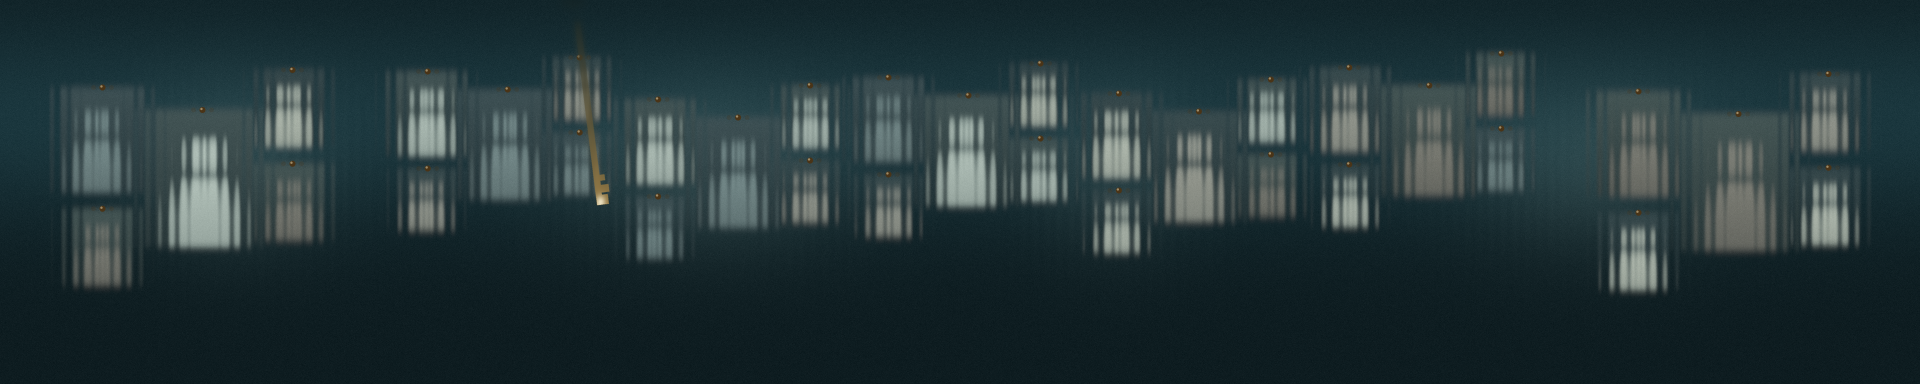
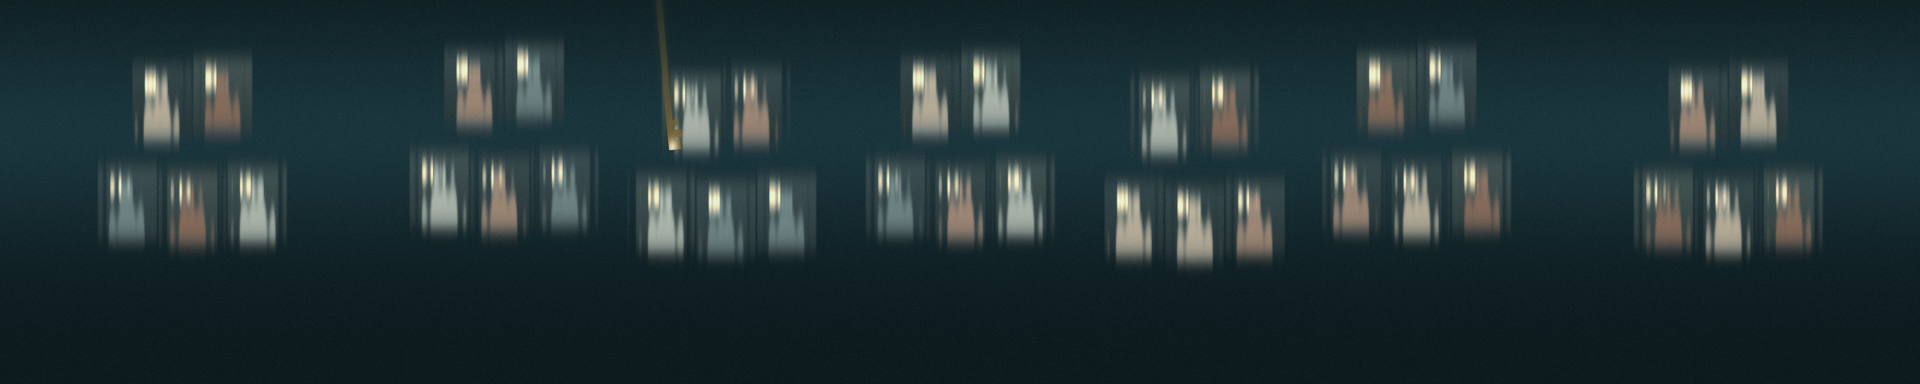
Идея «Окно»: обновления арт-директора и дизайнера (в работе)
Claude-Session: https://claude.ai/code/session_01A8nSHxPdxFUsNYF2YVY3yz

Changed region(s): [[0.0312, 0.0938, 0.9688, 0.7812]]

diff --git a/projects/pz26_nagrazhdenie/03_style/thumbs/okno_calib.py b/projects/pz26_nagrazhdenie/03_style/thumbs/okno_calib.py
@@ -1,0 +1,171 @@
+import numpy as np, json, os, sys
+from PIL import Image, ImageDraw, ImageFont
+from scipy.ndimage import gaussian_filter1d, uniform_filter1d, gaussian_filter
+W,H=1920,384; PITCH=12
+def hexc(h): h=h.lstrip('#'); return np.array([int(h[i:i+2],16) for i in (0,2,4)],np.float32)/255
+def s2l(x): return np.where(x<=0.04045,x/12.92,((x+0.055)/1.055)**2.4)
+def l2s(x): x=np.clip(x,0,1); return np.where(x<=0.0031308,x*12.92,1.055*x**(1/2.4)-0.055)
+def luma(im): return im@np.array([0.2126,0.7152,0.0722],np.float32)
+TEAL=hexc('#002935'); DEEP=hexc('#00151C'); FROST=hexc('#7C9795'); FROSTHI=hexc('#A4B9B5'); GOLD=hexc('#C9A961'); FIRE=hexc('#F0D6A0'); TEXT=hexc('#F4EFE4')
+PL_BG=[hexc(c) for c in ('#2F4348','#3A4A4A','#33474F','#3D4B47','#2C4046')]
+FIG=[hexc(c) for c in ('#C79A7E','#D8D0BC','#7C8F93','#A9795F','#E6C9A8')]
+rng=np.random.RandomState(26)
+tone=[int(i) for i in np.random.RandomState(7).permutation(35)%5]
+CX=[192,499.2,729.6,960,1190.4,1420.8,1728]
+SECY=[0,-14,10,-6,14,-10,6]; SECX=[0,4,-5,0,5,-4,0]
+def slots(w,h,pitch,tier_gap,top_up,top_lo):
+    out=[]
+    for s,cx in enumerate(CX):
+        cx=cx+SECX[s]; dy=SECY[s]
+        for k,dx in enumerate((-pitch,0,pitch)): out.append((cx+dx,top_lo+dy+(k%2)*5))
+        for k,dx in enumerate((-pitch/2,pitch/2)): out.append((cx+dx,top_up+dy-(k%2)*6))
+    return out  # centre x, top y
+UW,UH=56,70           # underlay (shadow) size
+UND=slots(UW,UH,62,0,66,168)
+LW,LH=60,107          # final leaf 9:16
+LEAF=slots(LW,LH,66,0,48,172)
+def figure_plate(i,w,h,lampx=True):
+    ww,hh=int(w),int(h); yy,xx=np.mgrid[0:hh,0:ww]; u=(xx+0.5)/ww*2-1; v=(yy+0.5)/hh
+    bg=PL_BG[tone[i]][None,None,:]*(1.15-0.35*v)[...,None]
+    off=((i*37)%11-5)/60
+    head=((u-off)/0.20)**2+((v-0.34*(70/h if h<80 else 1)*(h/70 if h<80 else 1))/0.14)**2<1
+    head=((u-off)/0.20)**2+((v-0.34)/0.14)**2<1
+    body=(((u-off)/0.62)**2+((v-0.98)/0.52)**2<1)&(v>0.5)
+    fig=gaussian_filter((head|body).astype(np.float32),0.7)[...,None]
+    col=FIG[tone[i]][None,None,:]*(1.08-0.3*v)[...,None]
+    return bg*(1-fig)+col*fig
+def lamp_pos(i,x,top,w,h): return (x+w*0.30, top+h*0.26)
+def draw_lamp(img,cx,cy,r=2.6,scale=1.0,col=None,strength=1.0):
+    yy,xx=np.mgrid[0:H,0:W]
+    d=np.sqrt((xx-cx)**2+(yy-cy)**2); m=np.clip(r+0.5-d,0,1)[...,None]*strength
+    col=FIRE if col is None else col
+    img[:]=img*(1-m)+col*m
+def bg_world(sharp=False,w0=1.0,w1=0.5):
+    y=np.linspace(0,1,H)[:,None,None]; x=np.linspace(0,1,W)[None,:,None]
+    base=TEAL[None,None,:]*(0.5+0.9*np.exp(-((y-0.34)/0.30)**2))
+    if sharp:
+        n=gaussian_filter(np.random.RandomState(3).randn(H,W),(0.6,0.4)); base=base*(w0+w1*np.exp(-((y-0.34)/0.3)**2))*(1+0.05*n[...,None])
+    return np.clip(base,0,1)
+def underlay_lin(include_lamps=True):
+    img=l2s(s2l(bg_world(False))); 
+    layer=np.zeros((H,W,3),np.float32); a=np.zeros((H,W),np.float32)
+    for i,(cx,top) in enumerate(UND):
+        p=figure_plate(i,UW,UH); x0=int(round(cx-UW/2)); y0=int(round(top))
+        layer[y0:y0+UH,x0:x0+UW]=p; a[y0:y0+UH,x0:x0+UW]=1
+    base=img*(1-a[...,None])+layer*a[...,None]
+    base=base.copy()
+    lamps=[]
+    for i,(cx,top) in enumerate(UND):
+        lx,ly=lamp_pos(i,cx-UW/2,top,UW,UH); lamps.append((lx,ly))
+    lin=s2l(base)
+    if include_lamps:
+        yy,xx=np.mgrid[0:H,0:W]
+        for (lx,ly) in lamps:
+            d=np.sqrt((xx-lx)**2+(yy-ly)**2); m=np.clip(3.0+0.5-d,0,1)[...,None]
+            lin=lin*(1-m)+s2l(FIRE)[None,None,:]*LAMP*m
+    return lin,lamps
+def glass(lin,A=5,bh=5,bv=7,lift=0.03,gain=0.9,tri=0.65,seed=11):
+    out=uniform_filter1d(lin,bh|1,axis=1,mode='nearest'); out=uniform_filter1d(out,bh|1,axis=1,mode='nearest')
+    out=gaussian_filter1d(out,bv,axis=0,mode='nearest')
+    xs=np.arange(W); u=(xs%PITCH)/PITCH; sh=A*np.sin(2*np.pi*u)
+    src=np.clip(xs+sh,0,W-1); i0=np.floor(src).astype(int); i1=np.minimum(i0+1,W-1); f=(src-i0)[None,:,None]
+    out=out[:,i0]*(1-f)+out[:,i1]*f
+    s=l2s(out); l=luma(s)[...,None]
+    tg=np.where(l<0.5,DEEP+(FROST-DEEP)*(l/0.5),FROST+(FROSTHI-FROST)*np.clip((l-0.5)/0.5,0,1))
+    # keep warmth of fires: tritone weight reduced where warm
+    warm=np.clip((s[...,0]-s[...,2])*4,0,1)[...,None]
+    t=tri*(1-0.7*warm)
+    o=s*(1-t)+tg*t*(0.5+l)
+    o=o*gain+lift
+    n=np.random.RandomState(seed).randn(H,W,1)*0.006
+    return np.clip(o+n,0,1)
+def bevel_window(img,content,x0,y0,x1,y1,wb,glow=1.0):
+    X0,Y0,X1,Y1=[int(round(v)) for v in (x0,y0,x1,y1)]
+    X0c,X1c=max(X0,0),min(X1,W); Y0c,Y1c=max(Y0,0),min(Y1,H)
+    img[Y0c:Y1c,X0c:X1c]=content[Y0c:Y1c,X0c:X1c]
+    yy,xx=np.mgrid[Y0c:Y1c,X0c:X1c]
+    dl=xx-X0; dr=X1-1-xx; dt=yy-Y0; db=Y1-1-yy
+    stack=np.stack([dl,dt,dr,db]); d=stack.min(0); which=stack.argmin(0)
+    inb=d<wb; u=np.clip((wb-d)/wb,0,1)   # 1 outer edge
+    # refraction: sample content mirrored across inner edge (edge shows compressed neighbour pixels)
+    sx=np.where(which==0,X0+wb+(wb-dl)*0.8,np.where(which==2,X1-1-wb-(wb-dr)*0.8,xx)).astype(int)
+    sy=np.where(which==1,Y0+wb+(wb-dt)*0.8,np.where(which==3,Y1-1-wb-(wb-db)*0.8,yy)).astype(int)
+    sx=np.clip(sx,0,W-1); sy=np.clip(sy,0,H-1)
+    refr=content[sy,sx]
+    lit=np.where(which<2,1.0,0.0)
+    gain=np.where(lit>0,1.0+0.55*np.clip(1-np.abs(u-0.3)/0.5,0,1),0.45-0.15*u)[...,None]
+    warm=np.where(lit>0,0.22*np.clip(1-np.abs(u-0.3)/0.5,0,1),0)[...,None]
+    fac=refr*gain*glow+FIRE*warm*glow
+    # outer 1-2px crisp edge: a thin warm-light line only on lit facets
+    edge=((d<=1)&(lit>0))[...,None]*0.5
+    fac=fac+FIRE*edge
+    reg=img[Y0c:Y1c,X0c:X1c]; reg[:]=np.where(inb[...,None],np.clip(fac,0,1),reg)
+    gx=np.exp(-(((xx-(X0+wb*3))/(wb*5))**2))*np.exp(-(((yy-(Y0+wb*0.5))/(wb*0.6))**2))
+    reg[:]=np.clip(reg+FIRE*gx[...,None]*0.40,0,1)
+def stats(arr):
+    l=luma(arr.astype(np.float32)); r,g,b=[arr[...,i].astype(np.float32) for i in range(3)]
+    return dict(dark=round(float(np.mean(l<40))*100,1),mid=round(float(np.mean((l>=40)&(l<150)))*100,1),light=round(float(np.mean((l>=150)&(l<=235)))*100,2),peak=round(float(np.mean(l>235))*100,3),mean=round(float(l.mean()),1),warm=round(float(np.mean(r-b>=40))*100,2))
+OUT='/home/user/dela-poleteli/projects/pz26_nagrazhdenie/03_style/thumbs/'
+def save(name,img):
+    a=(np.clip(img,0,1)*255+0.5).astype(np.uint8); Image.fromarray(a).save(OUT+name); return a
+LAMP=7.0
+KEYX=672
+def key_layer(tipx,tipy,L=210):
+    S=4; im=Image.new('L',(W*S,H*S),0); d=ImageDraw.Draw(im); ang=np.deg2rad(5); dx,dy=np.sin(ang),np.cos(ang)
+    def pt(t,off): return ((tipx-dx*t+dy*off)*S,(tipy-dy*t-dx*off)*S)
+    d.polygon([pt(10,-3),pt(L-30,-3),pt(L-30,3),pt(10,3)],fill=255)
+    for (t0,t1,o) in ((0,9,6),(12,20,8),(24,30,5)): d.polygon([pt(t0,3),pt(t1,3),pt(t1,3+o),pt(t0,3+o)],fill=255)
+    d.polygon([pt(0,-3),pt(0,9),pt(10,9),pt(10,-3)],fill=255)
+    cx,cy=pt(L+8,0); d.ellipse([cx-22*S,cy-22*S,cx+22*S,cy+22*S],outline=255,width=7*S)
+    return np.asarray(im.resize((W,H),Image.LANCZOS)).astype(np.float32)/255
+def add_key(img,tipx,tipy):
+    a=key_layer(tipx,tipy); yy=np.arange(H)[:,None]
+    dist=np.clip((tipy-yy)/200,0,1); ab=gaussian_filter(a,(5,3)); aa=a*(1-dist)+ab*dist
+    t=np.clip((tipy-yy)/215,0,1)[...,None]
+    col=(GOLD*0.62)*(1-t)+np.array([0.05,0.12,0.14])*t; col=np.broadcast_to(col,(H,W,3)).copy()
+    yy2,xx2=np.mgrid[0:H,0:W]; g=np.exp(-(((xx2-tipx)/5)**2+((yy2-tipy+3)/8)**2))[...,None]*a[...,None]
+    col=col*(1-g)+hexc('#F6E4B8')*g
+    img[:]=img*(1-aa[...,None]*0.95)+col*aa[...,None]*0.95
+def k1(P):
+    lin,l=underlay_lin(); img=glass(lin,**P); add_key(img,KEYX,150); return img
+def k2(P):
+    lin,l=underlay_lin(); img=glass(lin,**P)
+    wx0,wx1,wy0,wy1=164,714,37,347
+    # trail: weaker glass strip to the left of window
+    weak=glass(lin,A=3,bh=3,bv=3.5,**{k:v for k,v in P.items() if k not in('A','bh','bv')})
+    tr=np.zeros((H,W),np.float32)
+    for k in range(200):
+        xx=wx0-k; 
+        if xx<0: break
+        tr[wy0+30:wy1-30,xx]=0.9**(k/14)
+    tr=gaussian_filter(tr,(4,3))[...,None]*0.85
+    img=img*(1-tr)+weak*tr
+    # content: neutral b-roll plate, wide continuous layer
+    yy=np.linspace(0,1,H)[:,None,None]; xx=np.linspace(0,1,W)[None,:,None]
+    plate=hexc('#85837A')[None,None,:]*(1.12-0.45*yy)*(1-0.15*((xx-0.2)/0.3)**2)+0*xx
+    plate=np.broadcast_to(plate,(H,W,3)).copy()
+    # warm lamp inside plate (b-roll detail: brass lamp glint) left-centre
+    draw_lamp(plate,300,110,5,strength=1.0)
+    # remaining fires
+    bevel_window(img,plate,wx0,wy0,wx1,wy1,6)
+    # label
+    im=Image.fromarray((np.clip(img,0,1)*255).astype(np.uint8)); d=ImageDraw.Draw(im)
+    f=ImageFont.truetype('/usr/share/fonts/opentype/inter/Inter-Medium.otf',9)
+    d.text((wx0+16,wy1-24),'КАДР: ДЕТАЛЬ ОТЕЛЯ (ПЛЕЙСХОЛДЕР)',font=f,fill=(40,40,36))
+    return np.asarray(im).astype(np.float32)/255
+def k3(P):
+    img=l2s(s2l(bg_world(True,P.get('w0',1.1),P.get('w1',0.7)))); out=img.copy()
+    for i,(cx,top) in enumerate(LEAF):
+        p=figure_plate(i,LW,LH); x0=int(round(cx-LW/2)); y0=int(round(top))
+        # sharp content: full leaf plate (stretch of 4:5 plate downward: regenerate at 60x107)
+        cont=out.copy(); cont[y0:y0+LH,x0:x0+LW]=p
+        bevel_window(out,cont,x0,y0,x0+LW,y0+LH,3)
+        # practical lamp inside the footage: sharp warm bead behind the shoulder
+        lx=cx-LW/2+LW*0.30; ly=y0+LH*0.20
+        draw_lamp(out,lx,ly,2.6)
+        # warm spill on wall below (light from people)
+    return out
+if __name__=='__main__':
+    P=dict(A=5,bh=5,bv=7,lift=0.03,gain=0.9,tri=0.65); P.update(json.loads(os.environ.get('PARAMS','{}')))
+    for n,fn in (('k1',k1),('k2',k2),('k3',k3)):
+        a=save(f'okno_calib_{n}.png',fn(P)); print(n,stats(a))
